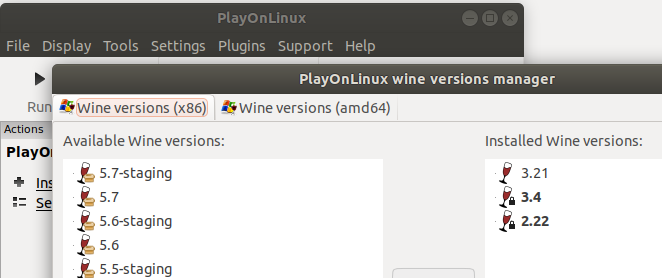
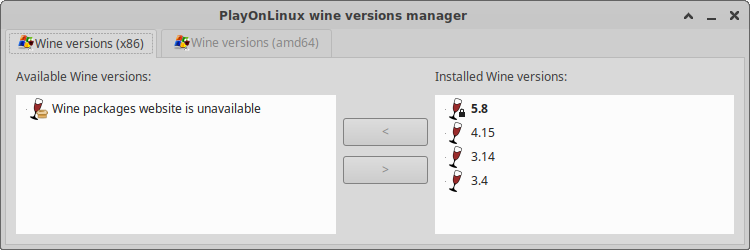
updating README

diff --git a/README.md b/README.md
@@ -77,23 +77,18 @@ Para configurar/instalar/usar o `Wine` no `Linux Ubuntu`, você pode seguir os p
 
 Para configurar/instalar/usar o `PlayOnLinux (POL)` no `Linux Ubuntu`, consulte também o guia do repositório: <https://github.com/edftechnology/playonlinux>.
 
-1. Abrir o `Terminal Emulator` e instalar o `PlayOnLinux` pelo `apt`:
+1. Abrir o `Terminal Emulator`. Você pode fazer isso pressionando:
 
     ```bash
-    sudo apt update
-    sudo apt install playonlinux -y
+    Ctrl + Alt + T
     ```
 
-    O pacote instala as dependências Python usadas pela interface, incluindo `python3-wxgtk4.0` (wxPython) e `python3-natsort`.
-
-2. O instalador deste documento requer os runners `Wine x86` nas versões `3.4`, `3.14`, `4.15` e `5.8`. Na raiz deste repositório, copie-os da pasta `docs/PlayOnLinux wine` para o diretório do PlayOnLinux:
+2. O instalador deste documento requer o _runner_ `Wine x86` na versão `5.8`. Na raiz deste
+repositório, copie-os da pasta `docs/PlayOnLinux wine` para o diretório do `PlayOnLinux`:
 
     ```bash
-    mkdir -p "$HOME/.PlayOnLinux/wine/linux-x86"
-    cp -a "docs/PlayOnLinux wine/linux-x86/3.4" \
-          "docs/PlayOnLinux wine/linux-x86/3.14" \
-          "docs/PlayOnLinux wine/linux-x86/4.15" \
-          "docs/PlayOnLinux wine/linux-x86/5.8" \
+    mkdir -pv "$HOME/.PlayOnLinux/wine/linux-x86"
+    cp -a "docs/PlayOnLinux wine/linux-x86/5.8" \
           "$HOME/.PlayOnLinux/wine/linux-x86/"
     ```
 
@@ -103,28 +98,27 @@ Para configurar/instalar/usar o `PlayOnLinux (POL)` no `Linux Ubuntu`, consulte 
     ls -lah "$HOME/.PlayOnLinux/wine/linux-x86/"
     ```
 
-    A listagem deve conter `3.4/`, `3.14/`, `4.15/` e `5.8/`. Reinicie o `PlayOnLinux` depois de copiar os runners.
+    A listagem deve conter `5.8/`.
+    
+4. Reinicie o `PlayOnLinux` depois de copiar o _runner_.
 
 
 ## 4. Configurar o `PlayOnLinux (POL)` [5]
 
 ### 4.1 Passos iniciais
 
-**A considerar :** `Wine x86` versão `4.15` é mais estável que `3.4` (abaixo) ou `3.14` (postagem
-do `GlasierXplor` no `POL` Fórum). Ou seja, ele não trava aleatoriamente. A ressalva é que haverá
-alguns problemas com as imagens, mas deverá funcionar bem 97% das vezes. O `Wine 4.15` requer a 
-instalação da atualização `POL 4.3.4` dos repositórios oficiais do `PlayOnLinux (POL)`.
+**A considerar:** este procedimento usa o `Wine x86 5.8`. A referência [5] relata que, no guia original, o autor considerou o `Wine x86 4.15` mais estável do que `3.4` ou `3.14`, citando uma postagem de GlasierXplor no fórum do `PlayOnLinux`; a fonte também menciona o `PlayOnLinux 4.3.4` como requisito para o Wine 4.15. Essa comparação é histórica e não avalia o Wine 5.8.
 
-1. A versão `3.4` do `Wine x86` foi usada para esta instalação, então verifique se ele está
-instalado iniciando o `PlayOnLinux (POL)` e selecionando `Tools-> Manage Wine versions`. Janela
-Gerenciar versões do `Wine` com `x86` versão `3.4` instalada
+1. A versão `5.8` do `Wine x86` foi usada para esta instalação, então verifique se ele está
+instalado iniciando o `PlayOnLinux (POL)` e selecionando `Tools -> Manage Wine versions`. Janela
+Gerenciar versões do `Wine` com `x86` versão `5.8` instalada
 
 <div align="center">
     <img src="docs/figures/playonlinux_wine_versions_manager.png" alt="Minha Imagem" />
     <p>Fig. 7. PlayOnLinux wine versions manager.</p>
 </div>
 
-2. Se o `Wine x86` versão `3.4` não aparecer em `Installed Wine versions`, selecione-a na janela
+2. Se o `Wine x86` versão `5.8` não aparecer em `Installed Wine versions`, selecione-a na janela
 `Available Wine versions:` e clique no botão `>` meio da janela para instalá-lo. Depois de
 instalado, **feche** e saia para o menu principal do `PlayOnLinux (POL)`.
 
@@ -139,14 +133,14 @@ instalação do `Windows` de `32 bits`
     <p>Fig. 8. PlayOnLinux Wizard .</p>
 </div>
 
-5. Selecione `Wine` versão `3.4` e pressione `Next`.
+5. Selecione `Wine` versão `5.8` e pressione `Next`.
 
-6. Dê um nome ao _drive_ virtual (por exemplo `wine34office2016pp`) e pressione `Next` para iniciar a
+6. Dê um nome ao _drive_ virtual (por exemplo `wine58office2016pp`) e pressione `Next` para iniciar a
 criação. Selecione para instalar o `Mono` se o `POL` solicitar.
 
 7. Assim que a criação da unidade virtual for concluída, você deverá retornar à tela principal de
 configuração do `PlayOnLinux (POL)`. Certifique-se de que a unidade recém-criada (por exemplo
-`wine34office2016pp`) esteja selecionada na janela esquerda.
+`wine58office2016pp`) esteja selecionada na janela esquerda.
 
 ### 4.2 Instalar componentes
 
@@ -181,11 +175,11 @@ Ao invés de instalar os componentes pelo `PlayOnLinux (POL)`, você pode instal
 1. Você pode instalar tudo de uma vez manualmente:
 
     ```bash
-    WINEPREFIX=~/.PlayOnLinux/wineprefix/wine34office2016pp winetricks dotnet40 msxml6 riched20 vcrun2013 corefonts
+    WINEPREFIX=~/.PlayOnLinux/wineprefix/wine58office2016pp winetricks dotnet40 msxml6 riched20 vcrun2013 corefonts
     ```
 
     **ATENÇÃO**: Perceba que, se você instalar o ambiente com outra versão do `wine`, você terá que alterar o
-    nome de `wine34office2016pp` conforme o nome que você criou, por exemplo, para a versão do
+    nome de `wine58office2016pp` conforme o nome que você criou, por exemplo, para a versão do
     `wine 3.14` pode ser `wine314office2016pp`.
 
 ### 4.3 Passos finais
@@ -236,7 +230,6 @@ Para configurar/instalar/usar o `Microsoft Office 2016` no `Linux Ubuntu`, siga 
     ```bash
     Ctrl + Alt + T
     ```
-
 
 2. Certifique-se de que seu sistema esteja limpo e atualizado.
 
@@ -298,35 +291,30 @@ Para configurar/instalar/usar o `Microsoft Office 2016` no `Linux Ubuntu`, siga 
     sudo apt update
     ```
 
-    3.1. O instalador de 32 bits precisa da biblioteca gráfica `libGL.so.1` de 32 bits. No `Terminal Emulator`, habilite a arquitetura `i386` e instale o pacote:
+    3.1. O instalador de 32 bits precisa da biblioteca gráfica `libGL.so.1` de 32 bits bem como do
+    `winbind`. No `Terminal Emulator`, habilite a arquitetura `i386` e instale o pacote:
 
     ```bash
     sudo dpkg --add-architecture i386
     sudo apt update
     sudo apt install libgl1:i386 -y
-    ```
-
-    Para contexto sobre o uso de Wine de 32 bits em um sistema de 64 bits, consulte também a referência [5].
-
-4. Criar o ponto de montagem `~/office2016`, se ele ainda não existir:
-
-    ```bash
-    mkdir -pv ~/office2016
-    ```
-
-5. Montar o arquivo `.ISO` baixado. O comando abaixo monta a imagem dentro da pasta `~/office2016`:
-
-    ```bash
-    sudo mount -o loop ~/Downloads/SW_DVD5_Office_Professional_Plus_2016_W32_English_MLF_X20-41353.ISO ~/office2016
-    ```
-
-6. Para instalar o `winbind`, digitar o comando:
-
-    ```bash
     sudo apt install winbind -y
     ```
 
-7. Clicar em `Install a program`:
+
+4. Criar o ponto de montagem `~/office2016pp`, se ele ainda não existir:
+
+    ```bash
+    mkdir -pv ~/office2016pp
+    ```
+
+5. Montar o arquivo `.ISO` baixado. O comando abaixo monta a imagem dentro da pasta `~/office2016pp`:
+
+    ```bash
+    sudo mount -o loop ~/Downloads/SW_DVD5_Office_Professional_Plus_2016_W32_English_MLF_X20-41353.ISO ~/office2016pp
+    ```
+
+6. Clicar em `Install a program`:
 
 <div align="center">
     <img src="docs/figures/playonlinux_main_window.png" alt="Minha Imagem" />
@@ -334,7 +322,7 @@ Para configurar/instalar/usar o `Microsoft Office 2016` no `Linux Ubuntu`, siga 
 </div>
 
 
-8. Clicar em `Search`:
+7. Clicar em `Search`:
 
 <div align="center">
     <img src="docs/figures/playonlinux_install_menu.png" alt="Minha Imagem" />
@@ -342,7 +330,7 @@ Para configurar/instalar/usar o `Microsoft Office 2016` no `Linux Ubuntu`, siga 
 </div>
 
 
-9. Digitar `Microsoft Office 2016 (method B)`:
+8. Digitar `Microsoft Office 2016 (method B)`:
 
 <div align="center">
     <img src="docs/figures/playonlinux_search_office_2016.png" alt="Minha Imagem" />
@@ -350,7 +338,7 @@ Para configurar/instalar/usar o `Microsoft Office 2016` no `Linux Ubuntu`, siga 
 </div>
 
 
-10. Clicar em `Microsoft Office 2016 (method B)`:
+9. Clicar em `Microsoft Office 2016 (method B)`:
 
 <div align="center">
     <img src="docs/figures/playonlinux_select_office_2016_method_b.png" alt="Minha Imagem" />
@@ -359,7 +347,7 @@ Para configurar/instalar/usar o `Microsoft Office 2016` no `Linux Ubuntu`, siga 
 
 
 
-11. Clicar em `Install`:
+10. Clicar em `Install`:
 
 <div align="center">
     <img src="docs/figures/playonlinux_method_b_selected.png" alt="Minha Imagem" />
@@ -367,7 +355,7 @@ Para configurar/instalar/usar o `Microsoft Office 2016` no `Linux Ubuntu`, siga 
 </div>
 
 
-12. Clicar em `Next`:
+11. Clicar em `Next`:
 
 <div align="center">
     <img src="docs/figures/playonlinux_during_a_playonlinux_installation.png" alt="Minha Imagem" />
@@ -375,7 +363,7 @@ Para configurar/instalar/usar o `Microsoft Office 2016` no `Linux Ubuntu`, siga 
 </div>
 
 
-13. Clicar em `Next`:
+12. Clicar em `Next`:
 
 <div align="center">
     <img src="docs/figures/playonlinux_is_not_related_to_winehq.png" alt="Minha Imagem" />
@@ -383,7 +371,7 @@ Para configurar/instalar/usar o `Microsoft Office 2016` no `Linux Ubuntu`, siga 
 </div>
 
 
-14. Clicar em `Use a setup file in my computer` e clicar em `Next`:
+13. Clicar em `Use a setup file in my computer` e clicar em `Next`:
 
 <div align="center">
     <img src="docs/figures/playonlinux_please_choose_an_installation_method.png" alt="Minha Imagem" />
@@ -391,7 +379,7 @@ Para configurar/instalar/usar o `Microsoft Office 2016` no `Linux Ubuntu`, siga 
 </div>
 
 
-15. Clicar em `Browse`:
+14. Clicar em `Browse`:
 
 <div align="center">
     <img src="docs/figures/playonlinux_please_select_the_setup_file_to_run.png" alt="Minha Imagem" />
@@ -399,14 +387,14 @@ Para configurar/instalar/usar o `Microsoft Office 2016` no `Linux Ubuntu`, siga 
 </div>
 
 
-16. Na janela de arquivos, abrir o ponto de montagem `~/office2016`, selecionar o arquivo `setup.exe` que está dentro dele e clicar em `Open`; em seguida, clicar em `Next`. Selecione o `setup.exe`, não o arquivo `.ISO` inteiro:
+15. Na janela de arquivos, abrir o ponto de montagem `~/office2016`, selecionar o arquivo `setup.exe` que está dentro dele e clicar em `Open`; em seguida, clicar em `Next`. Selecione o `setup.exe`, não o arquivo `.ISO` inteiro:
 
 <div align="center">
     <img src="docs/figures/playonlinux_select_setup_exe_from_mounted_iso.png" alt="Minha Imagem" />
     <p>Fig. 22. Arquivo setup.exe selecionado no ponto de montagem.</p>
 </div>
 
-17. Clicar em `Next`:
+16. Clicar em `Next`:
 
 <div align="center">
     <img src="docs/figures/playonlinux_the_wizard_will_help_you_install_microsoft_office_2016_on_your_computer.png" alt="Minha Imagem" />
@@ -414,7 +402,7 @@ Para configurar/instalar/usar o `Microsoft Office 2016` no `Linux Ubuntu`, siga 
 </div>
 
 
-18. Seguir as instruções do instalador do Office.
+17. Seguir as instruções do instalador do Office.
 
 <div align="center">
     <img src="docs/figures/office_2016_installer_window.png" alt="Minha Imagem" />
@@ -448,8 +436,8 @@ Disponível em: <https://chat.openai.com/c/498fa917-4067-4fc5-b69d-31c9514dc47e>
 ChatGPT.
 Acessado em: 23/11/2023 13:47.
 
-[5] STACK OVERFLOW.
-**64bit Debian and 32bit Wine.**
-Disponível em: <https://stackoverflow.com/questions/43845660/64bit-debian-and-32bit-wine>.
+[5] ASK UBUNTU (STACK EXCHANGE).
+**How do I install MS Office 2016 on PlayOnLinux?**
+Disponível em: <https://askubuntu.com/questions/975104/how-do-i-install-ms-office-2016-on-playonlinux>.
 Acessado em: 02/10/2026.
 
